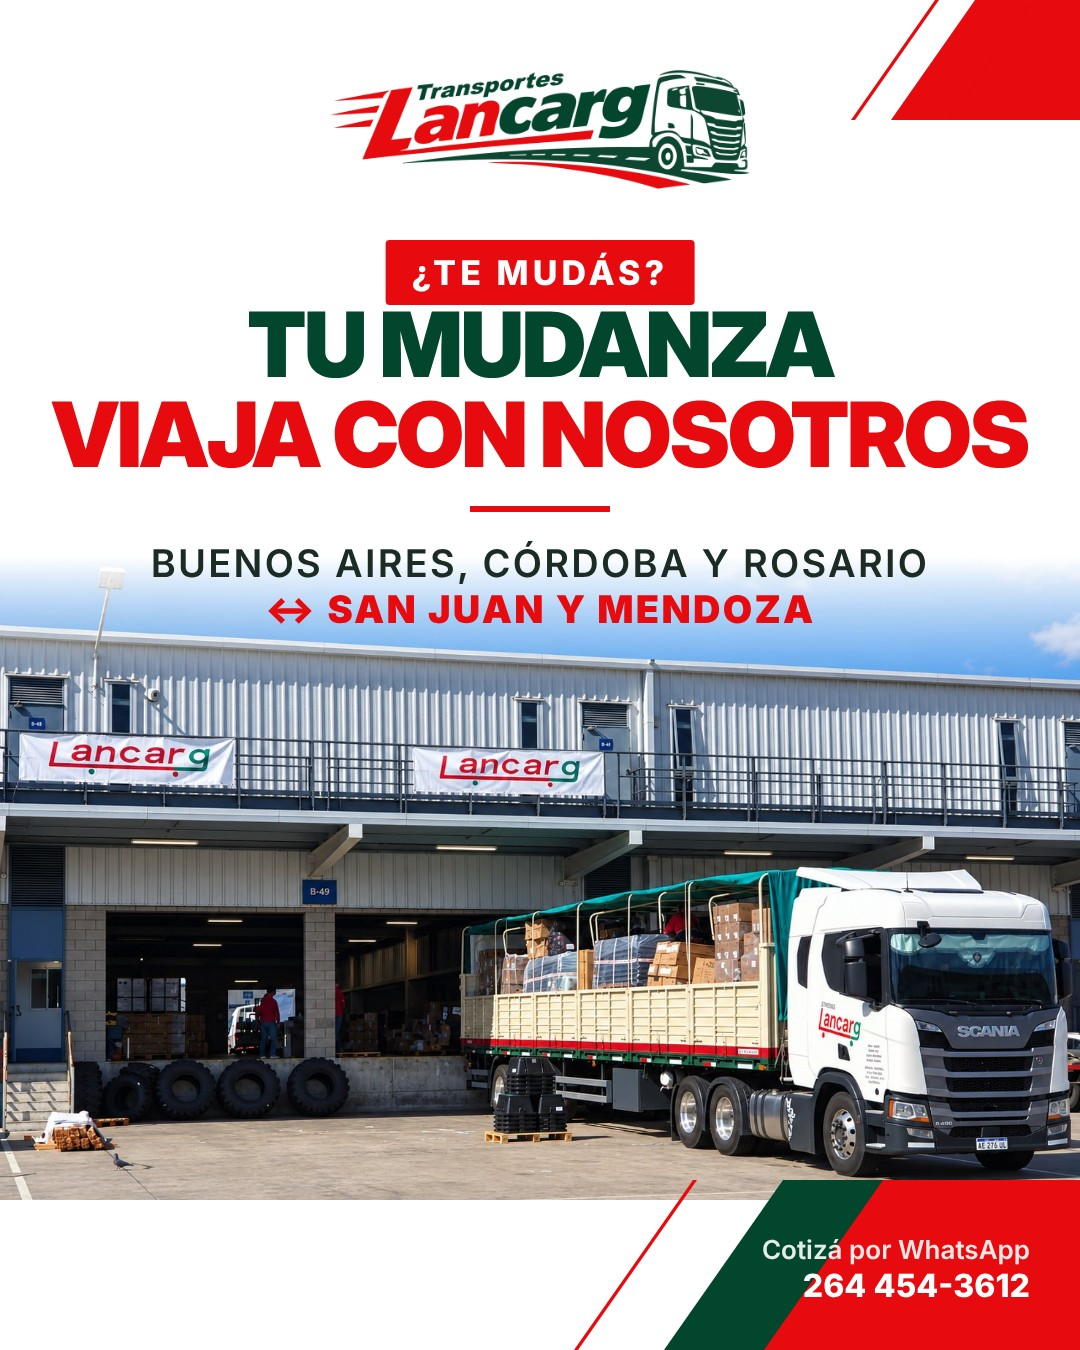
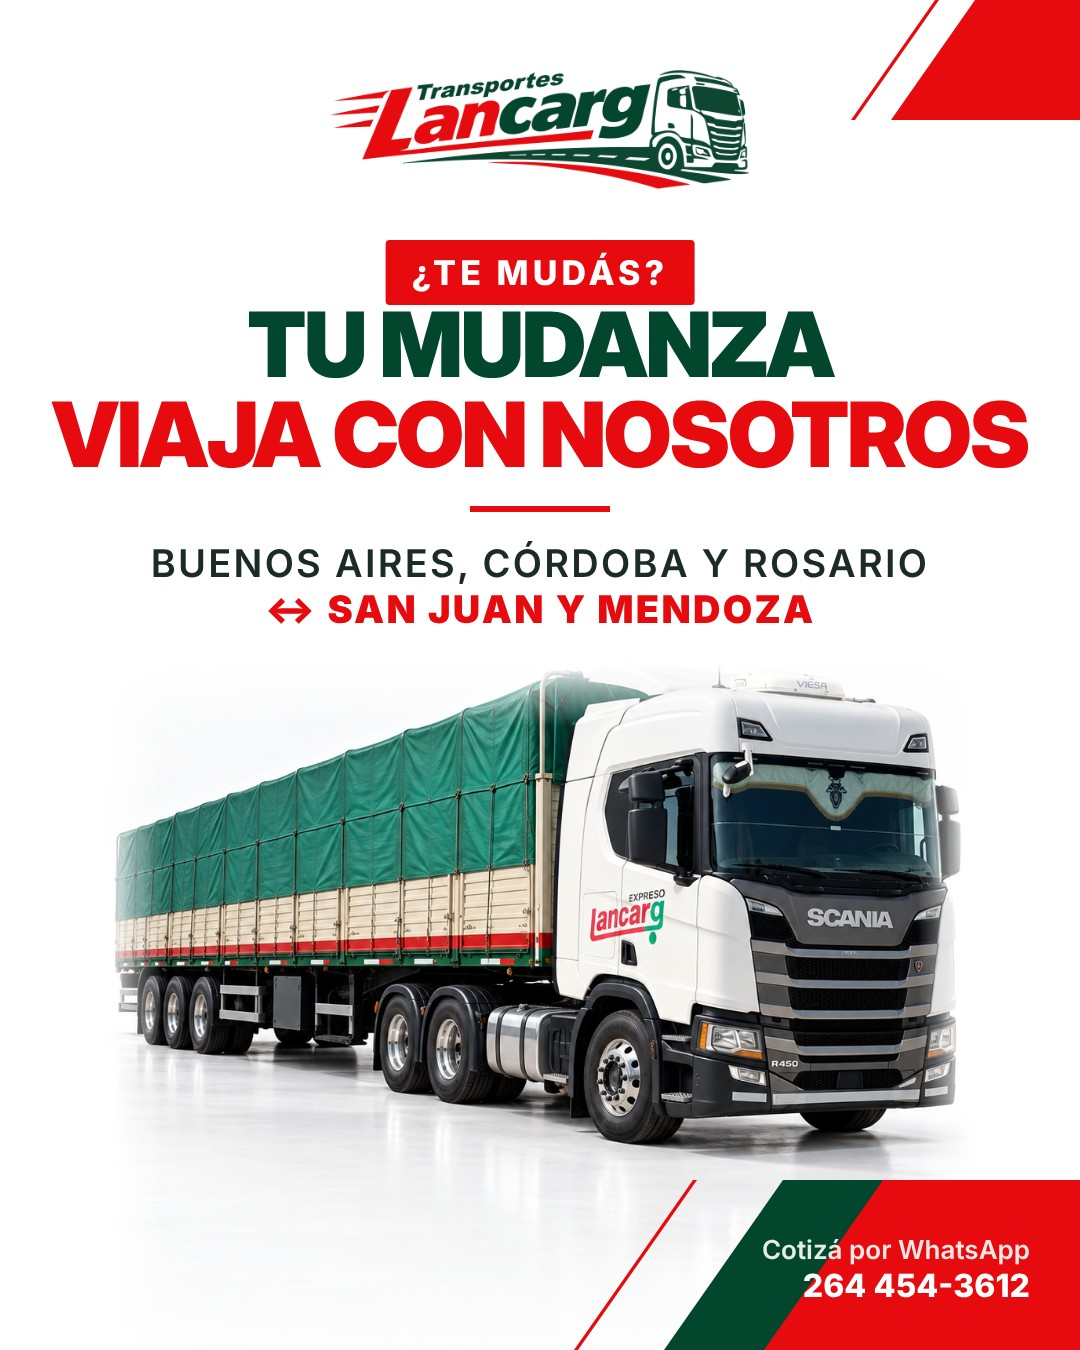
Mudanzas con camion en fondo blanco
Claude-Session: https://claude.ai/code/session_014Mzmm57TWdtJRgNHLty5PC

diff --git a/publicaciones/2026-mudanzas/diseno.html b/publicaciones/2026-mudanzas/diseno.html
@@ -23,19 +23,18 @@ h1 .r{color:#E70A0F}
 .cta small{display:block;font-size:26px;font-weight:600;opacity:.9}
 </style></head><body>
 <div class="slide feed">
-<img class="photo" src="../../fotos/camion-lancarg-en-muelle-logistico.jpg" style="top:500px;height:700px;object-position:100% 60%;-webkit-mask-image:linear-gradient(180deg,transparent 0%,transparent 8%,rgba(0,0,0,.5) 17%,#000 26%);mask-image:linear-gradient(180deg,transparent 0%,transparent 8%,rgba(0,0,0,.5) 17%,#000 26%)">
 <div class="d tr1" style="height:140px"></div><div class="d tr2" style="height:140px"></div>
 <img class="logo" src="../../marca/versiones/1-principal-color.png" style="top:70px;width:420px">
 <div class="kick" style="top:240px">¿Te mudás?</div>
 <h1 style="top:300px;font-size:90px">Tu mudanza<br><span class="r">viaja con nosotros</span></h1>
 <div class="bar" style="top:506px"></div>
 <div class="sub" style="top:540px">Buenos Aires, Córdoba y Rosario<br><b>↔ San Juan y Mendoza</b></div>
-
+<img src="../../fotos/camion-lancarg-fondo-blanco.png" style="position:absolute;left:50%;top:330px;width:880px;transform:translateX(-50%);-webkit-mask-image:linear-gradient(180deg,transparent 30%,#000 36%,#000 82%,transparent 97%),linear-gradient(90deg,transparent 0%,#000 7%,#000 93%,transparent 100%);-webkit-mask-composite:source-in;mask-image:linear-gradient(180deg,transparent 30%,#000 36%,#000 82%,transparent 97%),linear-gradient(90deg,transparent 0%,#000 7%,#000 93%,transparent 100%);mask-composite:intersect">
 <div class="d br1"></div><div class="d br2"></div><div class="d br3"></div>
 <div class="cta"><small>Cotizá por WhatsApp</small>264 454-3612</div>
 </div>
 <div class="slide story">
-<img class="photo" src="../../fotos/camion-lancarg-en-muelle-logistico.jpg" style="top:900px;height:840px;object-position:100% 60%;-webkit-mask-image:linear-gradient(180deg,transparent 0%,transparent 6%,rgba(0,0,0,.5) 13%,#000 20%);mask-image:linear-gradient(180deg,transparent 0%,transparent 6%,rgba(0,0,0,.5) 13%,#000 20%)">
+<img class="photo" src="../../fotos/camion-lancarg-fondo-blanco.png" style="top:700px;height:1300px;object-position:50% 50%;-webkit-mask-image:linear-gradient(180deg,transparent 0%,transparent 22%,rgba(0,0,0,.5) 26%,#000 30%);mask-image:linear-gradient(180deg,transparent 0%,transparent 22%,rgba(0,0,0,.5) 26%,#000 30%)">
 <div class="d tr1" style="height:190px"></div><div class="d tr2" style="height:190px"></div>
 <img class="logo" src="../../marca/versiones/1-principal-color.png" style="top:260px;width:560px">
 <div class="kick" style="top:470px">¿Te mudás?</div>
